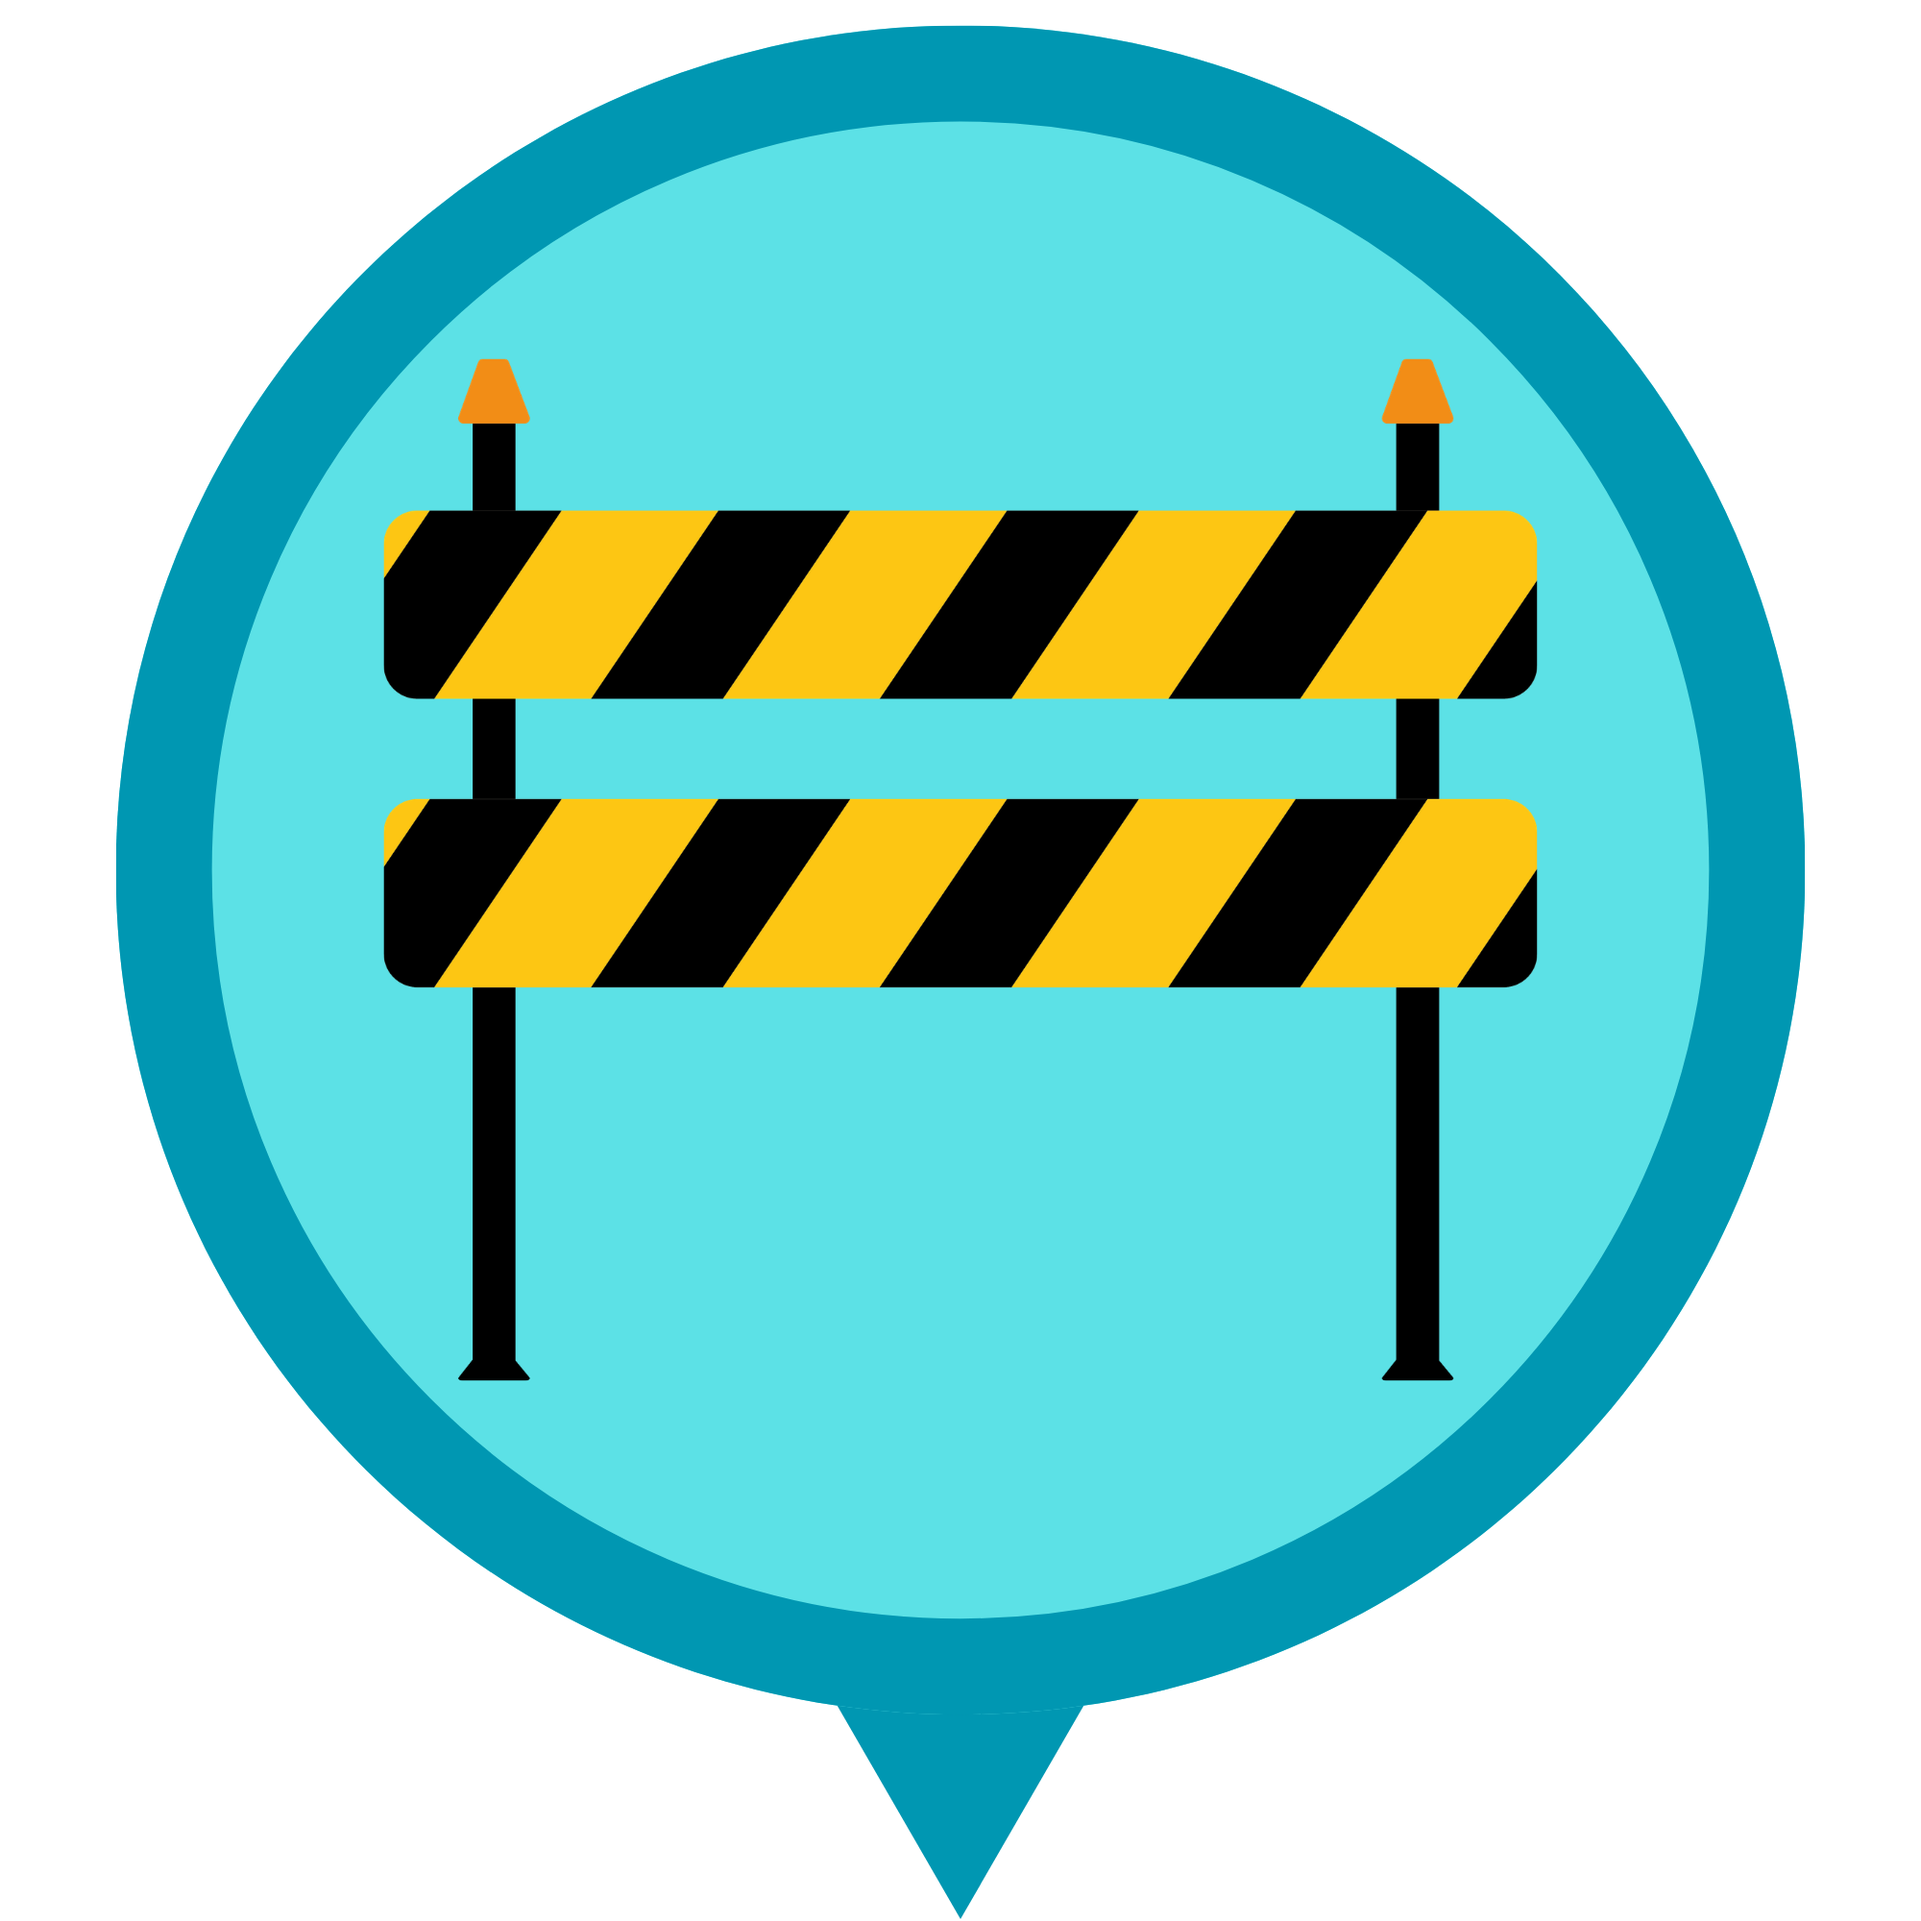
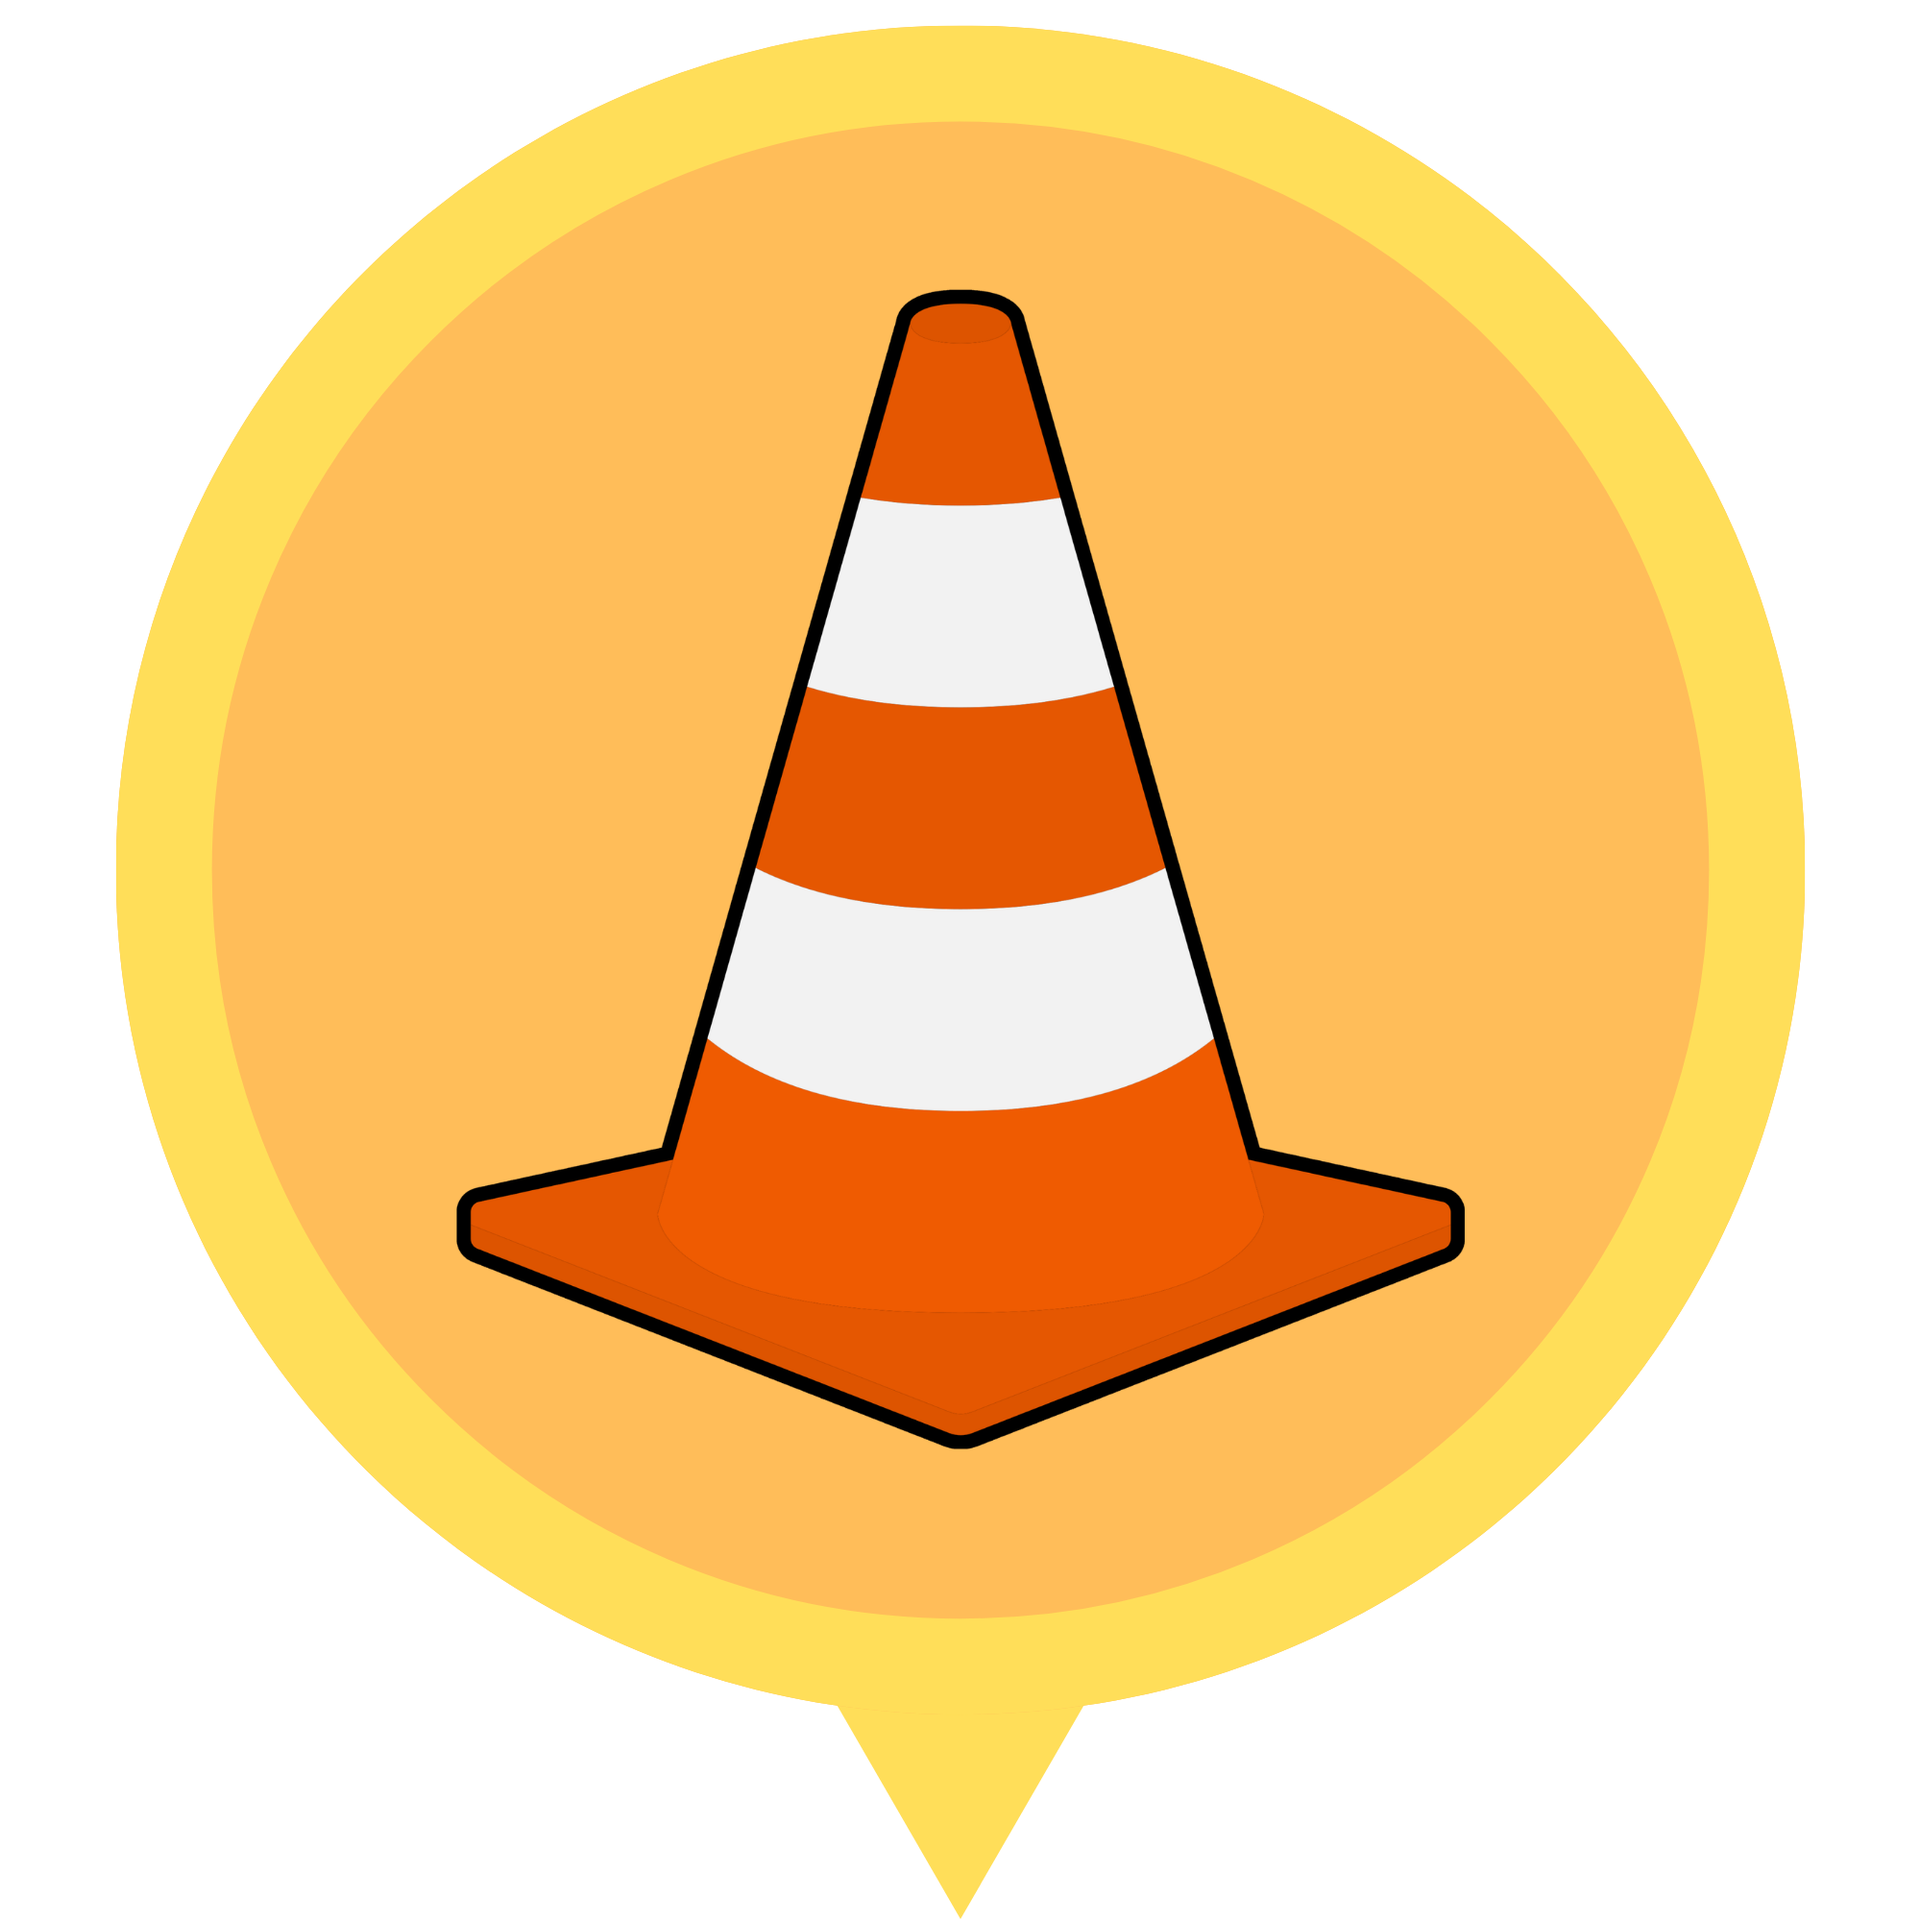
Road closures can now be submitted and displayed on map

diff --git a/public/scripts/core/closureRenderer.js b/public/scripts/core/closureRenderer.js
@@ -1,0 +1,142 @@
+import { apiFetch } from "./jeeplinkApiFetcher.js";
+
+export class ClosureRenderer {
+    constructor({ map, refreshInterval = 15000 }) {
+        this.map = map;
+
+        this.closure = [];
+        this.markers = new Map(); // closureId -> marker
+        this.markerLayer = new L.LayerGroup().addTo(this.map);
+
+        this.refreshInterval = refreshInterval;
+        this.refreshTimer = null;
+
+        // Custom Icon for closure terminal
+        this.closureIcon = L.icon({
+            iconUrl: "../../images/road-closure.png",
+            iconSize: [52, 52],
+            iconAnchor: [26, 52],
+            popupAnchor: [0, -30]
+        });
+
+        // Hover
+        this.closureIconHover = L.icon({
+            iconUrl: "../../images/road-closure.png",
+            iconSize: [60, 60], 
+            iconAnchor: [30, 60],
+            popupAnchor: [0, -30]
+        });
+    }
+
+    async loadClosures() {
+        const { closures_data } = await apiFetch(`/getClosures`, {
+            method: "GET",
+            headers: { "Content-Type": "application/json" }
+        });
+
+        return closures_data || [];
+    }
+
+    createMarker(closure) {
+        const marker = L.marker(
+            [closure.latitude, closure.longitude],
+            { icon: this.closureIcon }
+        ).addTo(this.markerLayer);
+
+        marker.bindPopup(`
+            <b>Road Closure - Expect traffic and reroute!</b><br>
+            <b>${closure.closure_name}</b><br>
+            ID: ${closure.id}
+        `);
+
+        marker.on("mouseover", () => {
+            marker.setIcon(this.closureIconHover);
+        });
+
+        marker.on("mouseout", () => {
+            marker.setIcon(this.closureIcon);
+        });
+
+        this.markers.set(closure.id, marker);
+    }
+
+    removeMarker(closureId) {
+        const marker = this.markers.get(closureId);
+
+        if (!marker) return;
+        this.markerLayer.removeLayer(marker);
+        this.markers.delete(closureId);
+    }
+
+    async displayClosures({ exceptHazardId = null } = {}) {
+        const latestClosures = await this.loadClosures();
+
+        // Convert to maps for comparison
+        const latestMap = new Map();
+        latestClosures.forEach(h => latestMap.set(h.id, h));
+
+        const currentMap = new Map();
+        this.closure.forEach(h => currentMap.set(h.id, h));
+
+        let hasChanges = false;
+
+        // Add new closure
+        latestClosures.forEach((closure) => {
+            if (exceptHazardId === closure.id) return;
+
+            if (!currentMap.has(closure.id)) {
+                this.createMarker(closure);
+                hasChanges = true;
+            }
+        });
+
+        // Remove deleted closure
+        this.closure.forEach((closure) => {
+            if (!latestMap.has(closure.id)) {
+                this.removeMarker(closure.id);
+                hasChanges = true;
+            }
+        });
+
+        this.closure = latestClosures;
+    }
+
+    startAutoRefresh(options = {}) {
+        // Prevent duplicate intervals
+        this.stopAutoRefresh();
+
+        // Initial render
+        this.displayClosures(options);
+
+        this.refreshTimer = setInterval(() => {
+            this.displayClosures(options);
+        }, this.refreshInterval);
+    }
+
+    stopAutoRefresh() {
+        if (this.refreshTimer) {
+            clearInterval(this.refreshTimer);
+            this.refreshTimer = null;
+        }
+    }
+
+    hide() {
+        this.stopAutoRefresh();
+        this.markerLayer.clearLayers();
+        this.markers.clear();
+    }
+
+    toggle() {
+        if (this.markers.size > 0) {
+            this.hide();
+        } else {
+            this.startAutoRefresh();
+        }
+    }
+
+    reload() {
+        this.hide();
+        this.closure = [];
+        this.startAutoRefresh();
+    }
+}

diff --git a/public/scripts/commuterScript.js b/public/scripts/commuterScript.js
@@ -3,6 +3,7 @@ import { CommuterRouter } from "./core/commuterRouter.js";
 import { SavedRouteRenderer } from "./core/savedRouteRenderer.js";
 import { TerminalRenderer } from "./core/terminalRenderer.js";
 import { HazardRenderer } from "./core/hazardRenderer.js";
+import { ClosureRenderer } from "./core/closureRenderer.js";
 import { setupLocationSearch, setupNamedLocations, getCurrentLocation } from "./core/search/locationSearchAutocomplete.js";
 import { apiFetch } from "./core/jeeplinkApiFetcher.js";
 import { snapToRoad } from "./helper/snapToRoadFunction.js";
@@ -177,6 +178,7 @@ const savedRouteRenderer = new SavedRouteRenderer({
 });
 const terminalRenderer = new TerminalRenderer({ map: map })
 const hazardRenderer = new HazardRenderer({ map: map })
+const closureRenderer = new ClosureRenderer({ map: map })
 const routeGenerated = new CommuterRouter({
     map: map,
     roadsGeoJSON: roadsGeoJSON,
@@ -186,6 +188,7 @@ const routeGenerated = new CommuterRouter({
 });
 
 hazardRenderer.toggle();
+closureRenderer.toggle();
 
 $("#toggleJeepRoutes").on("click", async () => {
     savedRouteRenderer.toggle();
